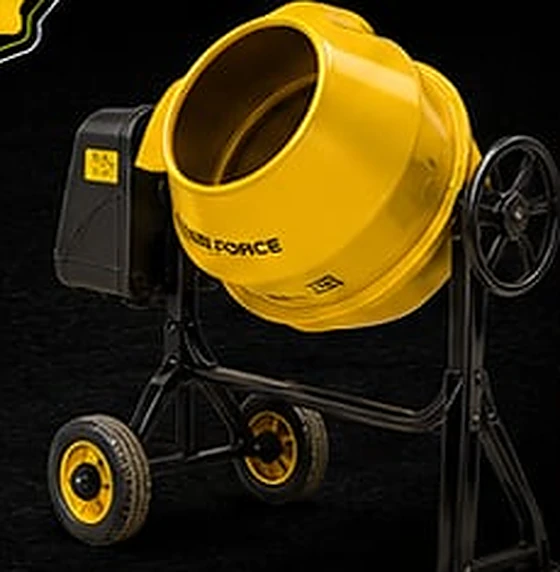
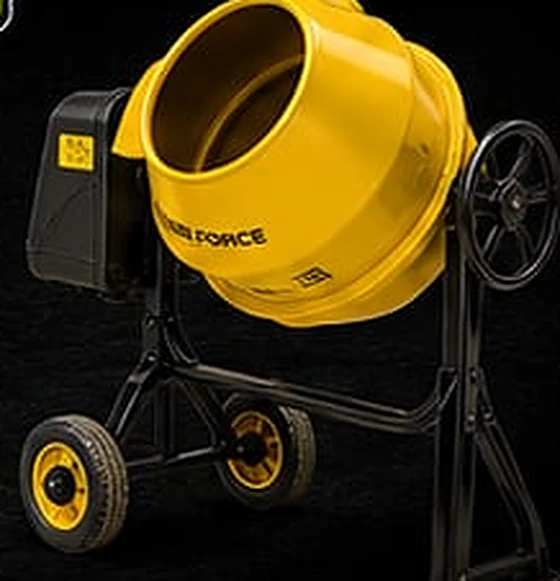
Hire: show the whole tool on every card
The cards cropped to fill (object-fit: cover). The art box is 184px tall
and two to three times as wide, so anything near-square lost its top and
bottom — the mixer's drum was cut off, the digger's auger, the roller's
handle. Only the mower looked right, because it was the one item already
using contain.

Every card now contains rather than crops. A card may letterbox; a
customer never sees half a machine.

The letterboxing is invisible rather than merely tolerated. The panel
behind the photo was --panel-2 (#1e1e1b) while the product shots carry
their flyer's near-black ground, measured at #01 to #06 across all of
them — so the photo showed as a rectangle floating in the card. The art
box is now #040404 and the two meet without a seam.

Three crops also caught a sliver of the crest at their top-left corner,
which is the same flyer-bleed defect this set was meant to fix. Tightened.

Verified by rebuilding the card markup with next/image's fill semantics —
absolutely positioned, 100% box, object-fit from the inline style — rather
than a plain img. My first attempt at this preview used a plain img with
height:100% and content-box padding, which overflowed and cropped, and
would have had me "fixing" a problem the real page did not have.

HIRE_ASSET_VERSION bumped to 4, since the photos changed again behind
stable URLs.

Claude-Session: https://claude.ai/code/session_01X98Z8BQ1AeTvW9BLCcQxX3

diff --git a/src/app/hire/hire.css b/src/app/hire/hire.css
@@ -534,24 +534,29 @@
 .hire-page .kit:hover {
   border-color: var(--lime-dim);
 }
+/* Every card shows the WHOLE tool.
+   This used to crop to fill (object-fit: cover), which looked tidy on a
+   wide photo and lopped the drum off a square one — the art box is 184px
+   tall and two to three times as wide, so anything near-square lost its
+   top and bottom. Containing instead means a card may letterbox, but a
+   customer never sees half a machine. The panel colour behind it is the
+   same dark the photos are shot on, so the bands read as background
+   rather than as a gap. */
 .hire-page .kit-art {
   position: relative;
   height: 184px;
-  background: #101010;
+  display: grid;
+  place-items: center;
+  /* #040404, not --panel-2. The product shots are cut from the flyers and
+     carry their near-black ground, measured at #01-#06 across all of them.
+     Against the lighter panel the photo showed as a rectangle floating in
+     the card; matched, the letterboxing disappears and the tool reads as
+     sitting on the card itself. */
+  background: #040404;
+  padding: 8px;
   overflow: hidden;
 }
 .hire-page .kit-art > img {
-  width: 100%;
-  height: 100%;
-  object-fit: cover;
-}
-.hire-page .kit-art.cutout {
-  display: grid;
-  place-items: center;
-  background: var(--panel-2);
-  padding: 10px;
-}
-.hire-page .kit-art.cutout > img {
   width: auto;
   height: 100%;
   object-fit: contain;

diff --git a/src/components/hire/HireApp.tsx b/src/components/hire/HireApp.tsx
@@ -533,7 +533,7 @@ function thumbClass(equipment: Equipment): string {
   return isCutout(equipment) ? "thumb cutout" : "thumb";
 }
 
-/** Equipment photo, filling a sized container. Cut-outs contain rather than crop. */
+/** Equipment photo. Always contained — a card must show the whole tool. */
 function ToolImage({ equipment, sizes }: { equipment: Equipment; sizes: string }) {
   // photo_path is either a file in public/ (the original seed) or a key in
   // the hire-photos bucket (uploaded by Thomas). Both resolve here.
@@ -545,11 +545,10 @@ function ToolImage({ equipment, sizes }: { equipment: Equipment; sizes: string }
       alt={`${equipment.name} available for hire`}
       fill
       sizes={sizes}
-      style={
-        isCutout(equipment)
-          ? { objectFit: "contain", padding: 4 }
-          : { objectFit: "cover" }
-      }
+      // Contained for every item, cut-out or photograph. Cropping to fill
+      // takes the top off a square product shot, and half a cement mixer
+      // is worse than a letterboxed one.
+      style={{ objectFit: "contain", padding: 4 }}
     />
   );
 }

diff --git a/src/lib/storage.ts b/src/lib/storage.ts
@@ -23,7 +23,7 @@ export const HIRE_PHOTOS_BUCKET = "hire-photos";
  *
  * Same trick, same reason as the `?v=` on the walker images in HomeHero.
  */
-export const HIRE_ASSET_VERSION = "3";
+export const HIRE_ASSET_VERSION = "4";
 
 /**
  * Public URL for an uploaded hire photo.

diff --git a/scripts/hire-flyers/import-flyer-sheet.py b/scripts/hire-flyers/import-flyer-sheet.py
@@ -48,13 +48,13 @@ PANELS = {
 # the headings and the feature lists — a card showing half a sentence of
 # flyer copy is exactly the defect this is fixing.
 PRODUCT = {
-    "cement-mixer": (168, 163, 398, 398),
+    "cement-mixer": (180, 172, 398, 398),
     "post-hole-digger": (185, 165, 389, 400),
     # Left edge starts past the DAILY RATE block, which sits at x<140
     # on this panel; the feature list below starts at y>305.
-    "demolition-hammer": (152, 180, 403, 302),
+    "demolition-hammer": (163, 188, 403, 302),
     "lawn-roller": (138, 194, 362, 386),
-    "deutscher-slasher": (158, 193, 385, 365),
+    "deutscher-slasher": (168, 201, 385, 365),
 }
 
 # Parts of a machine that disappear against the flyer's black ground, and
